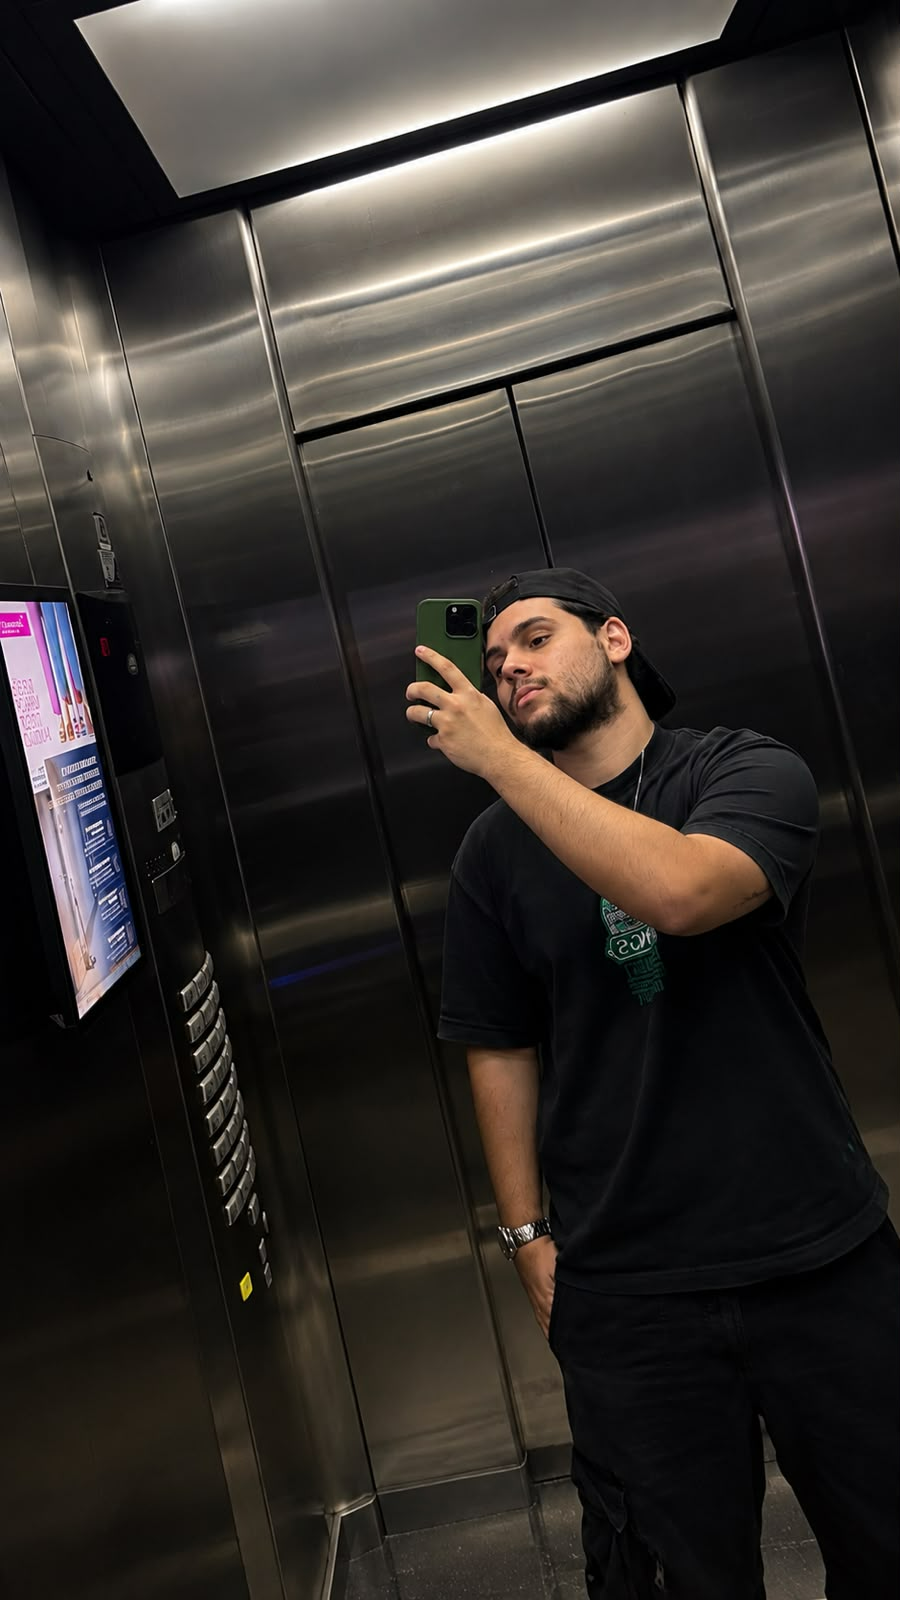
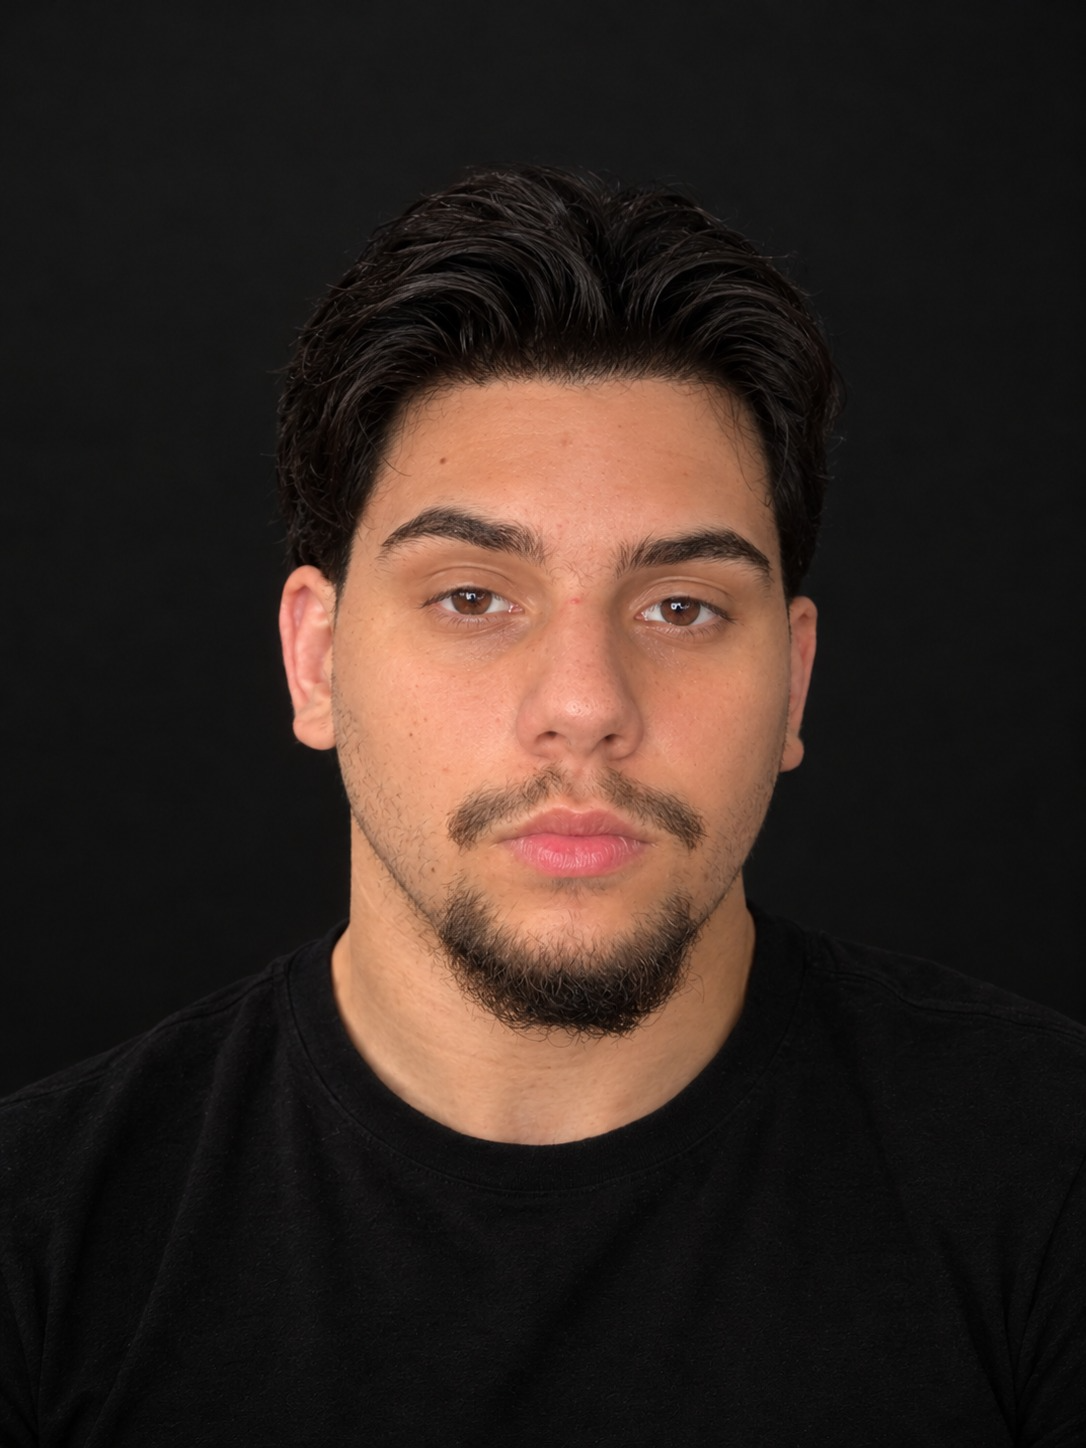
alteração da foto

diff --git a/index.html b/index.html
@@ -458,8 +458,7 @@ Meu objetivo é evoluir no desenvolvimento de aplicações completas, desde a in
           </div>
         </div>
 
-      </div>
-    </section>
+      </section>
     
      <section id="contato" class="contato">
     <div class="contato_titulo">

diff --git a/html/habilidades.html b/html/habilidades.html
@@ -1,4 +1,4 @@
-<!DOCTYPE html>
+-<!DOCTYPE html>
 <html lang="pt-Br">
 
 <head>
